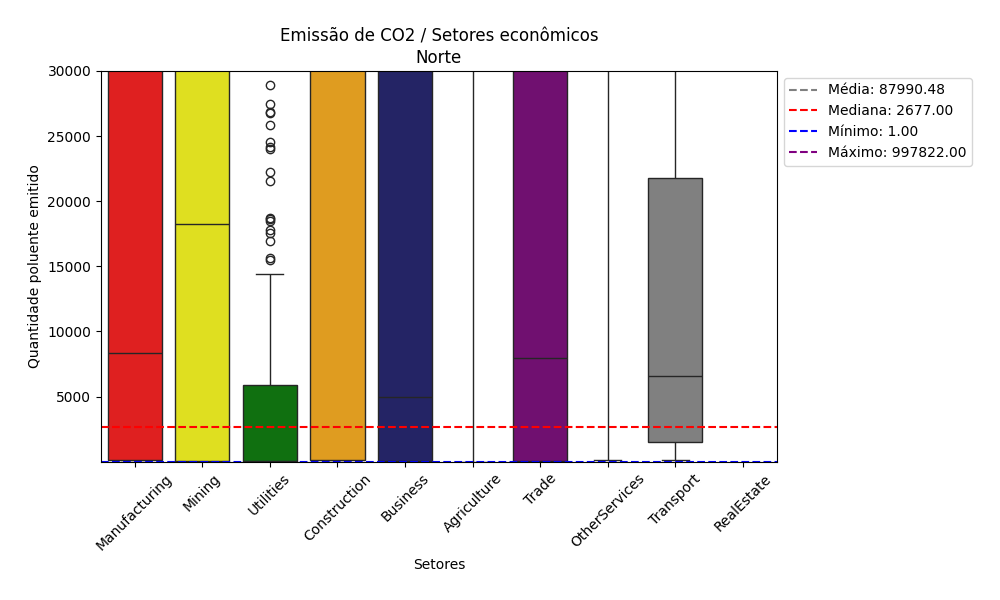
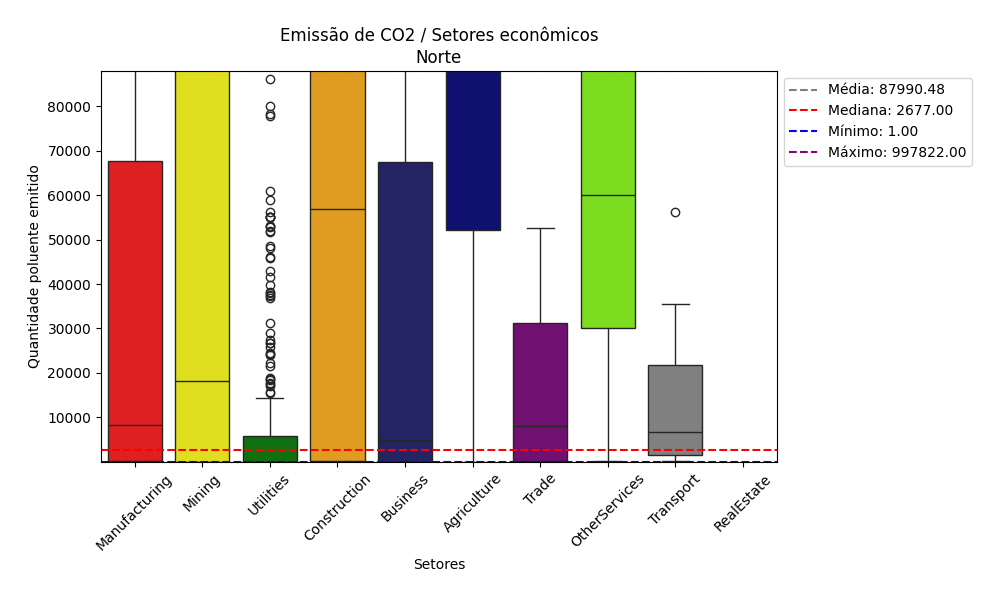
:recycle: update plots lim :recycle:

diff --git a/filtros_grafico.py b/filtros_grafico.py
@@ -218,7 +218,7 @@ def gera_plots(data, csv_description=None):
                 title_base = 'Emissão de CO2' 
             csv_description = plot_boxplot(base, y=indicador,
                         number=number, region=region,
-                        ylim_superior=30000,
+                        ylim_superior=base[indicador].mean(),
                         title=f'{title_base} / Setores econômicos',
                         description=True, des_data=csv_description,
                         ylabel='Quantidade poluente emitido',
